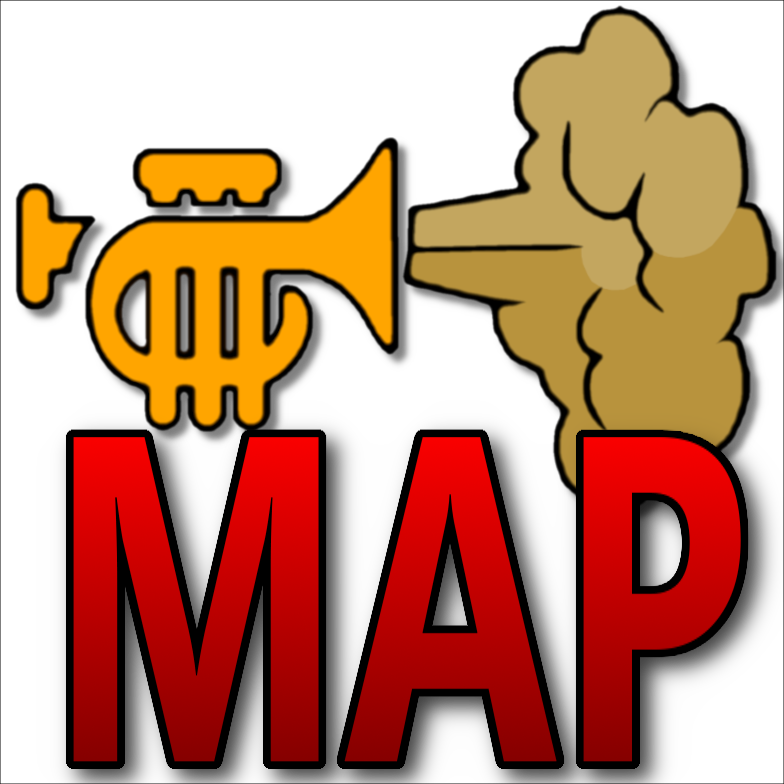
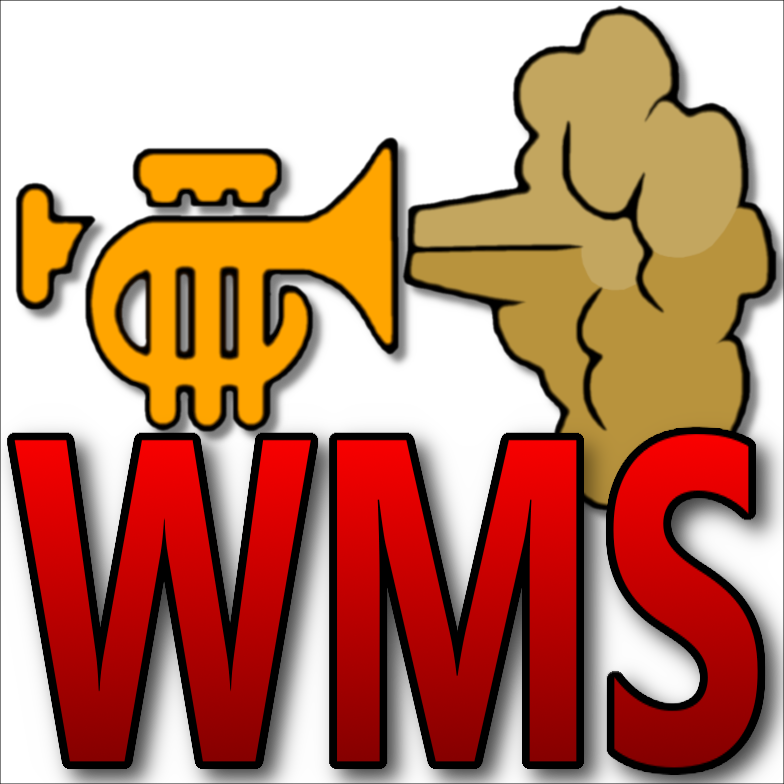
Rename app to WMS Tool Suite

diff --git a/index.html b/index.html
@@ -8,7 +8,7 @@
       name="description"
       content="Prepare virtual tabletop maps for print with grid controls, page slicing, and PDF export."
     />
-    <title>Map Slicer</title>
+    <title>WMS Tool Suite</title>
   </head>
   <body>
     <div id="root"></div>

diff --git a/src/App.tsx b/src/App.tsx
@@ -65,7 +65,7 @@ function App() {
             textShadow: `0 1px 2px ${theme.app.titlebarTextShadow}`,
           }}
         >
-          Map Slicer Tool Suite
+          WMS Tool Suite
         </h1>
       </header>
 

diff --git a/src/slicer/pdf.ts b/src/slicer/pdf.ts
@@ -360,5 +360,5 @@ export async function exportSlicedPdf({
 
   const safeWidth = String(printedWidthIn).replace(".", "_");
   const safeHeight = String(printedHeightIn).replace(".", "_");
-  pdf.save(`vtt_slices_${safeWidth}x${safeHeight}.pdf`);
+  pdf.save(`wms_slices_${safeWidth}x${safeHeight}.pdf`);
 }

diff --git a/README.md b/README.md
@@ -1,6 +1,6 @@
-# VTT Slicer
+# WMS Tool Suite
 
-VTT Slicer is a browser app for preparing virtual tabletop maps for print. Upload an image, tune the output size and grid, preview the page slices, then export a PDF.
+WMS Tool Suite is a browser app for preparing tabletop maps for print. Upload an image, tune the output size and grid, preview the page slices, then export a PDF.
 
 ## Run Locally
 